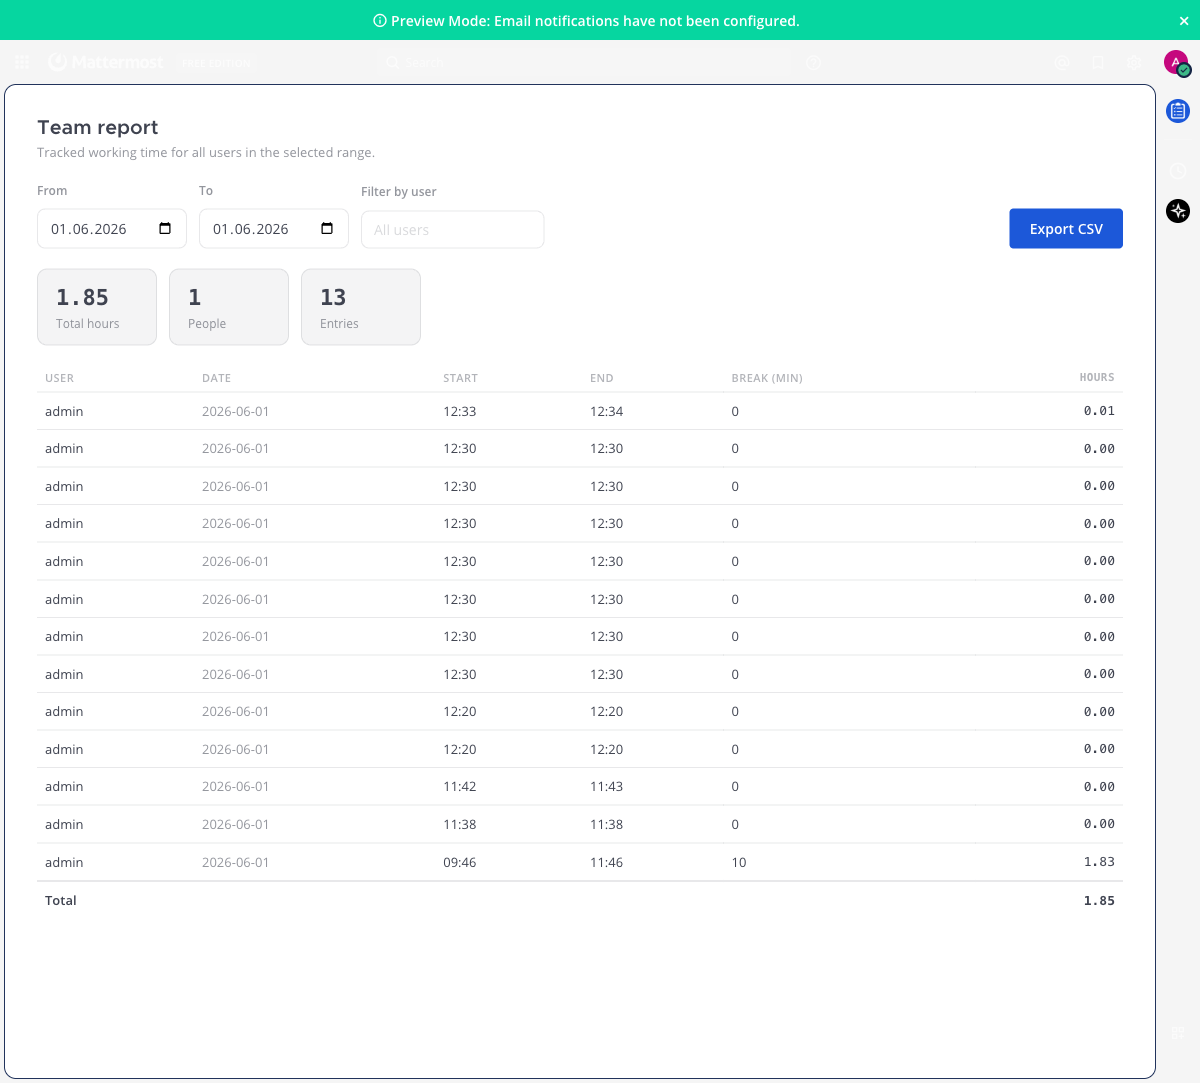
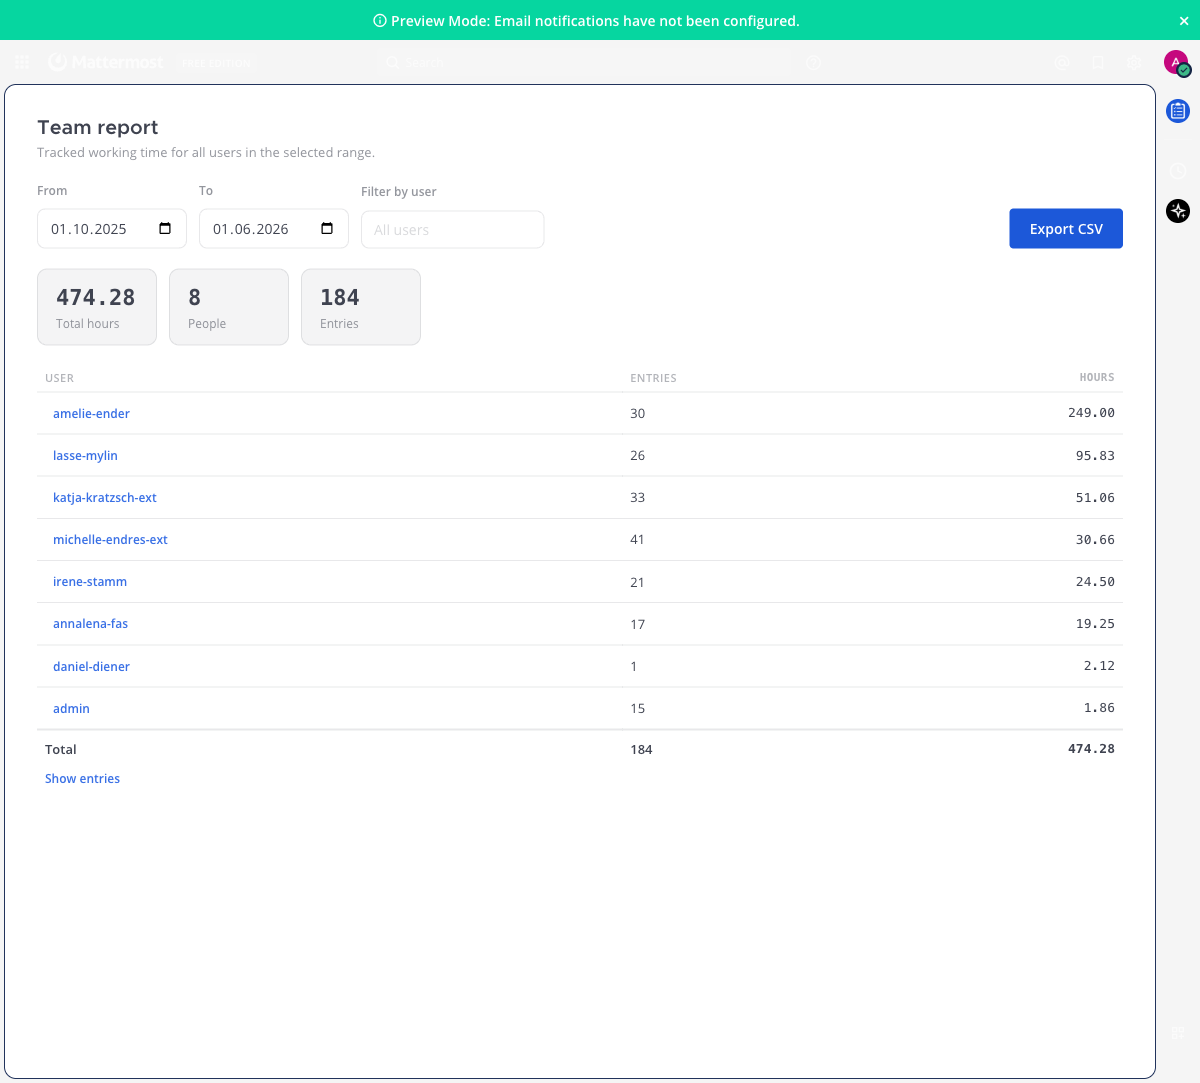
Harden release + MySQL, improve admin report, add release CI
- Release CI: add .github/workflows/release.yml (build + GitHub Release with the
  bundle on v* tags); fix ci.yml branch trigger master → main.
- MySQL: enforce the single-running-entry invariant with a STORED generated
  column running_user_id + UNIQUE KEY uniq_tt_user_running (Postgres keeps its
  partial unique index). isUniqueViolation now recognizes both. Verified on
  MySQL 8 incl. a DB-level duplicate-key proof.
- Admin Team report: lead with a per-user summary (entries + total hours,
  click-to-filter) and a show/hide-entries toggle; details below.
- Namespace datalist ids (clockwork-projects/notes) to avoid collisions.
- i18n: showEntries/hideEntries (de/en). README: Postgres recommended, MySQL
  supported for older deployments.

diff --git a/webapp/src/components/admin/AdminUserSummary.tsx b/webapp/src/components/admin/AdminUserSummary.tsx
@@ -1,0 +1,84 @@
+// Copyright (c) 2015-present Mattermost, Inc. All Rights Reserved.
+// See LICENSE.txt for license information.
+
+import {t} from 'i18n';
+import React, {useMemo} from 'react';
+import {decimalHours, netSeconds} from 'utils/time';
+
+import type {AdminRow} from 'components/admin/AdminTable';
+
+type Props = {
+    rows: AdminRow[];
+    now: number;
+    onSelectUser?: (username: string) => void;
+};
+
+type UserStat = {username: string; entries: number; net: number};
+
+// AdminUserSummary is the primary "Team report" view: one row per distinct
+// user with their entry count and total net hours, sorted by hours desc. The
+// user name is a button that drives the parent's client-side user filter.
+export default function AdminUserSummary({rows, now, onSelectUser}: Props): JSX.Element {
+    // Aggregate per username, then sort by net seconds desc. Sorting derived
+    // data avoids mutating the caller's array.
+    const stats = useMemo(() => {
+        const byUser = new Map<string, UserStat>();
+        for (const r of rows) {
+            const stat = byUser.get(r.username) ?? {username: r.username, entries: 0, net: 0};
+            stat.entries += 1;
+            stat.net += netSeconds(r.entry, now);
+            byUser.set(r.username, stat);
+        }
+        return [...byUser.values()].sort((a, b) => b.net - a.net);
+    }, [rows, now]);
+
+    const totalNet = useMemo(
+        () => stats.reduce((sum, s) => sum + s.net, 0),
+        [stats],
+    );
+    const totalEntries = useMemo(
+        () => stats.reduce((sum, s) => sum + s.entries, 0),
+        [stats],
+    );
+
+    if (stats.length === 0) {
+        return <div className='tt-empty'>{t('noEntries')}</div>;
+    }
+
+    return (
+        <table className='tt-table'>
+            <thead>
+                <tr>
+                    <th>{t('user')}</th>
+                    <th>{t('entriesCount')}</th>
+                    <th className='tt-num'>{t('hours')}</th>
+                </tr>
+            </thead>
+            <tbody>
+                {stats.map((s) => (
+                    <tr key={s.username}>
+                        <td>
+                            {onSelectUser ? (
+                                <button
+                                    className='tt-link'
+                                    onClick={() => onSelectUser(s.username)}
+                                >
+                                    {s.username}
+                                </button>
+                            ) : s.username}
+                        </td>
+                        <td>{s.entries}</td>
+                        <td className='tt-num'>{decimalHours(s.net)}</td>
+                    </tr>
+                ))}
+            </tbody>
+            <tfoot>
+                <tr>
+                    <td>{t('total')}</td>
+                    <td>{totalEntries}</td>
+                    <td className='tt-num'>{decimalHours(totalNet)}</td>
+                </tr>
+            </tfoot>
+        </table>
+    );
+}

diff --git a/webapp/src/components/admin/AdminConsole.tsx b/webapp/src/components/admin/AdminConsole.tsx
@@ -10,6 +10,7 @@ import {decimalHours, fromDatetimeInput, netSeconds} from 'utils/time';
 
 import type {AdminRow} from 'components/admin/AdminTable';
 import AdminTable from 'components/admin/AdminTable';
+import AdminUserSummary from 'components/admin/AdminUserSummary';
 
 ensureStyles();
 
@@ -36,6 +37,7 @@ export default function AdminConsole(): JSX.Element {
     });
     const [to, setTo] = useState(() => dateInput(new Date()));
     const [userFilter, setUserFilter] = useState('');
+    const [showEntries, setShowEntries] = useState(false);
     const [rows, setRows] = useState<AdminRow[]>([]);
     const [loading, setLoading] = useState(false);
     const [error, setError] = useState('');
@@ -102,6 +104,12 @@ export default function AdminConsole(): JSX.Element {
     );
     const entriesCount = filtered.length;
 
+    // The detailed entries default to hidden to reduce clutter, but always
+    // expand when a user filter narrows the report to one person or when the
+    // admin explicitly toggles them on.
+    const filterActive = userFilter.trim() !== '';
+    const entriesExpanded = filterActive || showEntries;
+
     return (
         <div className='tt-admin'>
             <div className='tt-admin__inner'>
@@ -166,10 +174,28 @@ export default function AdminConsole(): JSX.Element {
                 {loading && rows.length === 0 ? (
                     <div className='tt-admin__empty'>{t('loading')}</div>
                 ) : (
-                    <AdminTable
-                        rows={filtered}
-                        now={now}
-                    />
+                    <>
+                        <AdminUserSummary
+                            rows={filtered}
+                            now={now}
+                            onSelectUser={setUserFilter}
+                        />
+                        <div className='tt-admin__bar'>
+                            <button
+                                className='tt-link'
+                                disabled={filterActive}
+                                onClick={() => setShowEntries((v) => !v)}
+                            >
+                                {entriesExpanded ? t('hideEntries') : t('showEntries')}
+                            </button>
+                        </div>
+                        {entriesExpanded ? (
+                            <AdminTable
+                                rows={filtered}
+                                now={now}
+                            />
+                        ) : null}
+                    </>
                 )}
             </div>
         </div>

diff --git a/webapp/src/components/rhs/RHSView.tsx b/webapp/src/components/rhs/RHSView.tsx
@@ -92,7 +92,7 @@ export default function RHSView(): JSX.Element {
     return (
         <div className='tt'>
             {/* Autocomplete sources shared by the start form and the edit modal. */}
-            <datalist id='tt-projects'>
+            <datalist id='clockwork-projects'>
                 {suggest.projects.map((v) => (
                     <option
                         key={v}
@@ -100,7 +100,7 @@ export default function RHSView(): JSX.Element {
                     />
                 ))}
             </datalist>
-            <datalist id='tt-notes'>
+            <datalist id='clockwork-notes'>
                 {suggest.notes.map((v) => (
                     <option
                         key={v}
@@ -150,7 +150,7 @@ export default function RHSView(): JSX.Element {
                         <input
                             type='text'
                             className='tt-field'
-                            list='tt-projects'
+                            list='clockwork-projects'
                             placeholder={t('project')}
                             value={project}
                             disabled={busy}
@@ -159,7 +159,7 @@ export default function RHSView(): JSX.Element {
                         <input
                             type='text'
                             className='tt-field'
-                            list='tt-notes'
+                            list='clockwork-notes'
                             placeholder={t('note')}
                             value={description}
                             disabled={busy}

diff --git a/webapp/src/components/EntryEditModal.tsx b/webapp/src/components/EntryEditModal.tsx
@@ -139,7 +139,7 @@ export default function EntryEditModal({entry, onClose, onSaved}: Props): JSX.El
                 <input
                     type='text'
                     className='tt-field'
-                    list='tt-projects'
+                    list='clockwork-projects'
                     value={project}
                     disabled={disabled}
                     onChange={(e) => setProject(e.target.value)}
@@ -149,7 +149,7 @@ export default function EntryEditModal({entry, onClose, onSaved}: Props): JSX.El
                 <input
                     type='text'
                     className='tt-field'
-                    list='tt-notes'
+                    list='clockwork-notes'
                     value={description}
                     disabled={disabled}
                     onChange={(e) => setDescription(e.target.value)}

diff --git a/webapp/src/i18n.ts b/webapp/src/i18n.ts
@@ -47,7 +47,9 @@ export type StringKey =
     | 'exportCsv'
     | 'totalHours'
     | 'people'
-    | 'entriesCount';
+    | 'entriesCount'
+    | 'showEntries'
+    | 'hideEntries';
 
 type Strings = Record<StringKey, string>;
 
@@ -95,6 +97,8 @@ const en: Strings = {
     totalHours: 'Total hours',
     people: 'People',
     entriesCount: 'Entries',
+    showEntries: 'Show entries',
+    hideEntries: 'Hide entries',
 };
 
 const de: Strings = {
@@ -141,6 +145,8 @@ const de: Strings = {
     totalHours: 'Gesamtstunden',
     people: 'Personen',
     entriesCount: 'Einträge',
+    showEntries: 'Einträge anzeigen',
+    hideEntries: 'Einträge ausblenden',
 };
 
 const catalogs: Record<string, Strings> = {en, de};

diff --git a/server/store/sqlstore.go b/server/store/sqlstore.go
@@ -160,17 +160,12 @@ func (s *SQLStore) StartTimer(userID, project, description string, now int64) (*
 	}
 	defer func() { _ = tx.Rollback() }()
 
-	// Check for an existing running entry. On MySQL we add FOR UPDATE so the
-	// row/gap lock on the user_id index range serializes concurrent starts
-	// (MySQL has no partial unique index). On Postgres the partial unique index
-	// idx_tt_user_running is the hard backstop, so no row lock is needed here
-	// (and FOR UPDATE is disallowed with aggregates/this read anyway).
-	existsQuery := "SELECT id FROM timetracking_entries WHERE user_id = ? AND end_at IS NULL LIMIT 1"
-	if s.driver == driverMySQL {
-		existsQuery += " FOR UPDATE"
-	}
+	// Fast-path check for a friendly error. The authoritative guard against a
+	// concurrent start is the unique key on the open row — the Postgres partial
+	// index idx_tt_user_running and the MySQL generated-column key
+	// uniq_tt_user_running — enforced on INSERT below.
 	var existingID string
-	switch scanErr := tx.QueryRow(s.ph(existsQuery), userID).Scan(&existingID); {
+	switch scanErr := tx.QueryRow(s.ph("SELECT id FROM timetracking_entries WHERE user_id = ? AND end_at IS NULL LIMIT 1"), userID).Scan(&existingID); {
 	case scanErr == nil:
 		return nil, ErrAlreadyRunning
 	case errors.Is(scanErr, sql.ErrNoRows):
@@ -191,9 +186,8 @@ func (s *SQLStore) StartTimer(userID, project, description string, now int64) (*
 	}
 
 	if err := s.insertEntry(tx, e); err != nil {
-		// On Postgres the partial unique index idx_tt_user_running is the
-		// authoritative guard against a concurrent start slipping past the
-		// count check above; map its violation to the domain error.
+		// A unique-key violation on the open-row index means a concurrent start
+		// slipped past the fast-path check; surface it as the domain error.
 		if isUniqueViolation(err) {
 			return nil, ErrAlreadyRunning
 		}
@@ -207,13 +201,18 @@ func (s *SQLStore) StartTimer(userID, project, description string, now int64) (*
 	return e, nil
 }
 
-// isUniqueViolation reports whether err is a violation of the Postgres partial
-// unique index idx_tt_user_running (one running entry per user). It matches that
-// index by name so an unrelated constraint (e.g. the primary key) is never
-// mistaken for the running-entry collision. MySQL has no such index and
-// serializes starts via FOR UPDATE in StartTimer instead.
+// isUniqueViolation reports whether err is a violation of the one-running-entry
+// unique key — the Postgres partial index idx_tt_user_running or the MySQL
+// generated-column key uniq_tt_user_running. It matches those names so an
+// unrelated constraint (e.g. the primary key) is never mistaken for the
+// running-entry collision.
 func isUniqueViolation(err error) bool {
-	return err != nil && strings.Contains(strings.ToLower(err.Error()), "idx_tt_user_running")
+	if err == nil {
+		return false
+	}
+	msg := strings.ToLower(err.Error())
+	// Postgres partial unique index, or the MySQL generated-column unique key.
+	return strings.Contains(msg, "idx_tt_user_running") || strings.Contains(msg, "uniq_tt_user_running")
 }
 
 // mutateRunning loads the user's running entry inside a transaction with a row

diff --git a/server/store/migrations.go b/server/store/migrations.go
@@ -63,6 +63,10 @@ CREATE TABLE IF NOT EXISTS timetracking_entries (
 // INDEX but not CREATE INDEX IF NOT EXISTS), giving an idempotent single
 // statement.
 func (s *SQLStore) migrateMySQL() error {
+	// MySQL has no partial indexes, so the single-running-entry invariant is
+	// enforced with a STORED generated column that equals user_id only while the
+	// entry is open (end_at NULL) and is NULL otherwise — a UNIQUE key on it
+	// permits many closed rows (NULLs repeat) but at most one open row per user.
 	const createTable = `
 CREATE TABLE IF NOT EXISTS timetracking_entries (
 	id VARCHAR(26) PRIMARY KEY,
@@ -76,7 +80,9 @@ CREATE TABLE IF NOT EXISTS timetracking_entries (
 	locked BOOLEAN NOT NULL DEFAULT FALSE,
 	created_at BIGINT NOT NULL,
 	updated_at BIGINT NOT NULL,
-	INDEX idx_tt_user_start (user_id, start_at)
+	running_user_id VARCHAR(26) GENERATED ALWAYS AS (CASE WHEN end_at IS NULL THEN user_id ELSE NULL END) STORED,
+	INDEX idx_tt_user_start (user_id, start_at),
+	UNIQUE KEY uniq_tt_user_running (running_user_id)
 )`
 
 	if _, err := s.db.Exec(createTable); err != nil {

diff --git a/README.md b/README.md
@@ -8,7 +8,7 @@ Built compliance-first for German *Arbeitszeiterfassung* (records start, end,
 breaks and net daily hours), with an optional project/description per entry.
 
 - **Plugin id:** `com.vsjwl.mm-time-tracking`
-- **Min server version:** 9.0.0 (self-hosted; uses the plugin SQL store — Postgres or MySQL)
+- **Min server version:** 9.0.0 (self-hosted). **Postgres recommended** (the DB newer Mattermost supports); **MySQL** also works and is verified — kept as a nice-to-have for older deployments.
 - **License:** Apache-2.0 · German + English UI
 
 ## Features
